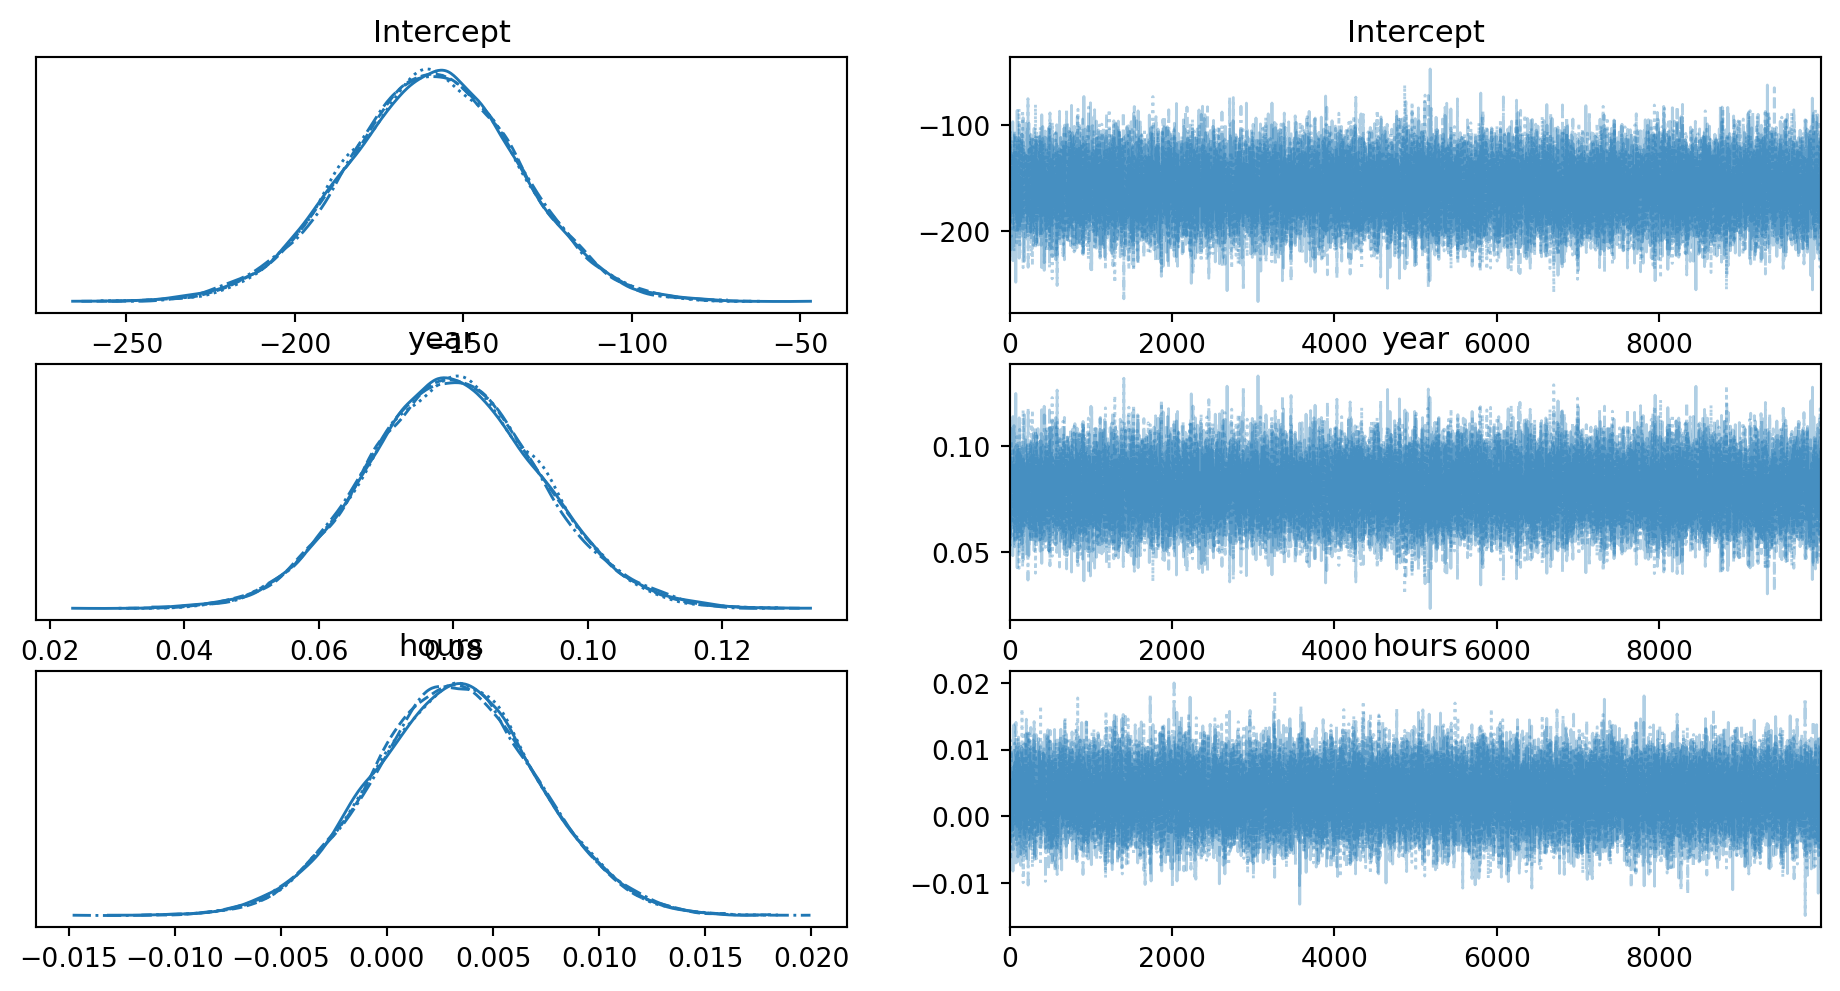
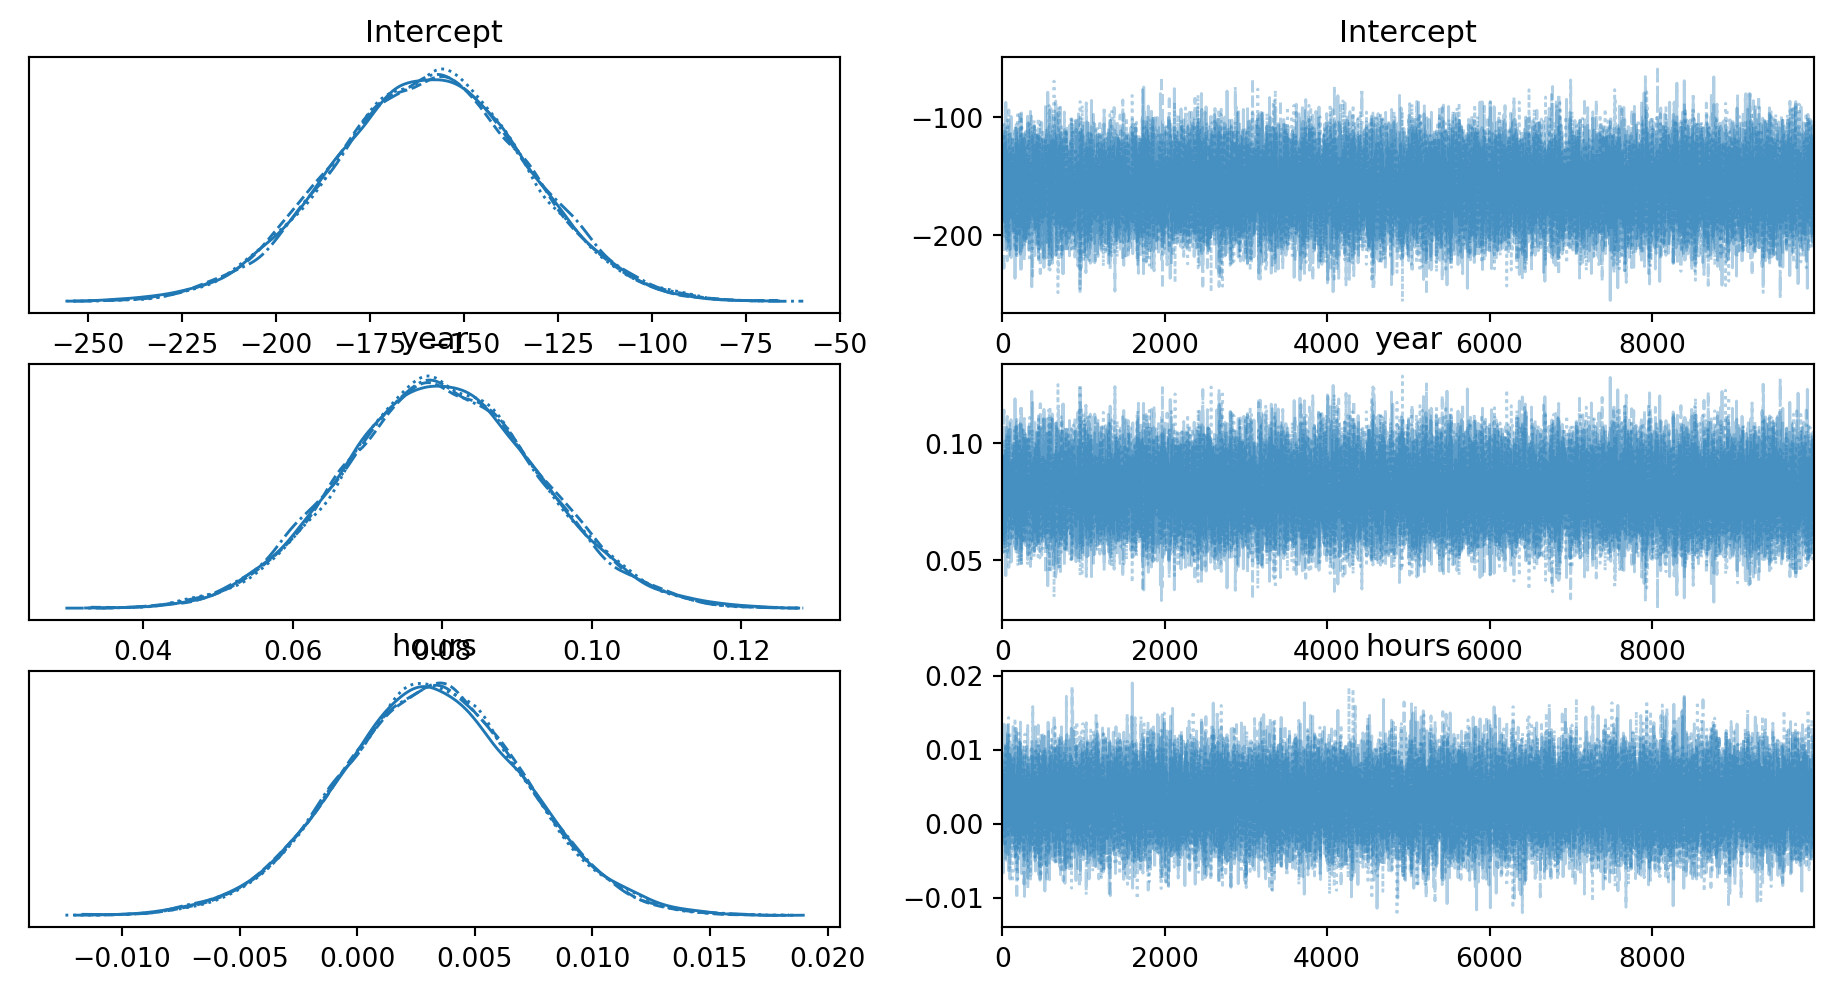
Chapter 12 exercises continued!

diff --git a/Chapter12.html b/Chapter12.html
@@ -514,14 +514,14 @@ Quarto issue
   <tbody>
     <tr>
       <th>Intercept</th>
-      <td>-159.560</td>
-      <td>25.492</td>
-      <td>-206.316</td>
-      <td>-110.756</td>
-      <td>0.176</td>
-      <td>0.125</td>
-      <td>20996.0</td>
-      <td>21942.0</td>
+      <td>-159.408</td>
+      <td>25.632</td>
+      <td>-207.358</td>
+      <td>-111.099</td>
+      <td>0.174</td>
+      <td>0.123</td>
+      <td>21738.0</td>
+      <td>23496.0</td>
       <td>1.0</td>
     </tr>
     <tr>
@@ -529,11 +529,11 @@ Quarto issue
       <td>0.080</td>
       <td>0.013</td>
       <td>0.055</td>
-      <td>0.103</td>
+      <td>0.104</td>
       <td>0.000</td>
       <td>0.000</td>
-      <td>20945.0</td>
-      <td>21840.0</td>
+      <td>21706.0</td>
+      <td>23293.0</td>
       <td>1.0</td>
     </tr>
     <tr>
@@ -541,11 +541,11 @@ Quarto issue
       <td>0.003</td>
       <td>0.004</td>
       <td>-0.004</td>
-      <td>0.010</td>
+      <td>0.011</td>
       <td>0.000</td>
       <td>0.000</td>
-      <td>24123.0</td>
-      <td>26122.0</td>
+      <td>24288.0</td>
+      <td>24266.0</td>
       <td>1.0</td>
     </tr>
   </tbody>
@@ -553,7 +553,7 @@ Quarto issue
 </div>
 </div>
 <div class="cell-output cell-output-display">
-<p><img src="Chapter12_files/figure-html/cell-10-output-16.png" width="920" height="496"></p>
+<p><img src="Chapter12_files/figure-html/cell-10-output-16.png" width="917" height="496"></p>
 </div>
 </div>
 <p>Diagnostics look good, so moving on to look at the posterior check&gt;</p>
@@ -571,6 +571,297 @@ Quarto issue
 </section>
 <section id="exercise-12.8" class="level3">
 <h3 class="anchored" data-anchor-id="exercise-12.8">Exercise 12.8</h3>
+<div class="cell" data-execution_count="11">
+<div class="sourceCode cell-code" id="cb23"><pre class="sourceCode python code-with-copy"><code class="sourceCode python"><span id="cb23-1"><a href="#cb23-1" aria-hidden="true" tabindex="-1"></a>model2 <span class="op">=</span> bmb.Model(<span class="st">'count ~ year + hours'</span>, eagles, family<span class="op">=</span><span class="st">'negativebinomial'</span>)</span>
+<span id="cb23-2"><a href="#cb23-2" aria-hidden="true" tabindex="-1"></a>model2.build()</span>
+<span id="cb23-3"><a href="#cb23-3" aria-hidden="true" tabindex="-1"></a>model2 </span></code><button title="Copy to Clipboard" class="code-copy-button"><i class="bi"></i></button></pre></div>
+<div class="cell-output cell-output-display" data-execution_count="11">
+<pre><code>Formula: count ~ year + hours
+Family name: Negativebinomial
+Link: log
+Observations: 37
+Priors:
+  Common-level effects
+    Intercept ~ Normal(mu: 0, sigma: 468.302)
+    year ~ Normal(mu: 0.0, sigma: 0.2341)
+    hours ~ Normal(mu: 0.0, sigma: 0.0806)
+
+  Auxiliary parameters
+    alpha ~ HalfCauchy(beta: 1)</code></pre>
+</div>
+</div>
+<div class="cell" data-execution_count="12">
+<div class="sourceCode cell-code" id="cb25"><pre class="sourceCode python code-with-copy"><code class="sourceCode python"><span id="cb25-1"><a href="#cb25-1" aria-hidden="true" tabindex="-1"></a>model2.plot_priors()</span></code><button title="Copy to Clipboard" class="code-copy-button"><i class="bi"></i></button></pre></div>
+<div class="cell-output cell-output-display" data-execution_count="12">
+<pre><code>array([&lt;AxesSubplot:title={'center':'Intercept'}&gt;,
+       &lt;AxesSubplot:title={'center':'year'}&gt;,
+       &lt;AxesSubplot:title={'center':'hours'}&gt;,
+       &lt;AxesSubplot:title={'center':'count_alpha'}&gt;], dtype=object)</code></pre>
+</div>
+<div class="cell-output cell-output-display">
+<p><img src="Chapter12_files/figure-html/cell-13-output-2.png" width="2415" height="487"></p>
+</div>
+</div>
+<p>I am not too sure what bambi is doing with <code>alpha</code> prior here, so once again i will use my own exponential prior</p>
+<div class="cell" data-execution_count="13">
+<div class="sourceCode cell-code" id="cb27"><pre class="sourceCode python code-with-copy"><code class="sourceCode python"><span id="cb27-1"><a href="#cb27-1" aria-hidden="true" tabindex="-1"></a>alpha_prior <span class="op">=</span> bmb.Prior(<span class="st">'Exponential'</span>, lam<span class="op">=</span> <span class="dv">1</span><span class="op">/</span><span class="fl">50.</span>)</span>
+<span id="cb27-2"><a href="#cb27-2" aria-hidden="true" tabindex="-1"></a>model2 <span class="op">=</span> bmb.Model(<span class="st">'count ~ year + hours'</span>, eagles, family<span class="op">=</span><span class="st">'negativebinomial'</span>,priors <span class="op">=</span> {<span class="st">'alpha'</span>: alpha_prior})</span>
+<span id="cb27-3"><a href="#cb27-3" aria-hidden="true" tabindex="-1"></a>model2.build()</span>
+<span id="cb27-4"><a href="#cb27-4" aria-hidden="true" tabindex="-1"></a>model2 </span></code><button title="Copy to Clipboard" class="code-copy-button"><i class="bi"></i></button></pre></div>
+<div class="cell-output cell-output-display" data-execution_count="13">
+<pre><code>Formula: count ~ year + hours
+Family name: Negativebinomial
+Link: log
+Observations: 37
+Priors:
+  Common-level effects
+    Intercept ~ Normal(mu: 0, sigma: 468.302)
+    year ~ Normal(mu: 0.0, sigma: 0.2341)
+    hours ~ Normal(mu: 0.0, sigma: 0.0806)
+
+  Auxiliary parameters
+    alpha ~ Exponential(lam: 0.02)</code></pre>
+</div>
+</div>
+<div class="cell" data-execution_count="14">
+<div class="sourceCode cell-code" id="cb29"><pre class="sourceCode python code-with-copy"><code class="sourceCode python"><span id="cb29-1"><a href="#cb29-1" aria-hidden="true" tabindex="-1"></a>model2.plot_priors()</span></code><button title="Copy to Clipboard" class="code-copy-button"><i class="bi"></i></button></pre></div>
+<div class="cell-output cell-output-display" data-execution_count="14">
+<pre><code>array([&lt;AxesSubplot:title={'center':'Intercept'}&gt;,
+       &lt;AxesSubplot:title={'center':'year'}&gt;,
+       &lt;AxesSubplot:title={'center':'hours'}&gt;,
+       &lt;AxesSubplot:title={'center':'count_alpha'}&gt;], dtype=object)</code></pre>
+</div>
+<div class="cell-output cell-output-display">
+<p><img src="Chapter12_files/figure-html/cell-15-output-2.png" width="2415" height="487"></p>
+</div>
+</div>
+<div class="cell" data-execution_count="15">
+<div class="sourceCode cell-code" id="cb31"><pre class="sourceCode python code-with-copy"><code class="sourceCode python"><span id="cb31-1"><a href="#cb31-1" aria-hidden="true" tabindex="-1"></a>results2 <span class="op">=</span> model2.fit(draws<span class="op">=</span><span class="dv">10000</span>, chains<span class="op">=</span><span class="dv">4</span>,cores<span class="op">=</span><span class="dv">1</span>)</span>
+<span id="cb31-2"><a href="#cb31-2" aria-hidden="true" tabindex="-1"></a>az.plot_trace(results2)</span>
+<span id="cb31-3"><a href="#cb31-3" aria-hidden="true" tabindex="-1"></a>az.summary(results2)</span></code><button title="Copy to Clipboard" class="code-copy-button"><i class="bi"></i></button></pre></div>
+<div class="cell-output cell-output-stderr">
+<pre><code>Auto-assigning NUTS sampler...</code></pre>
+</div>
+<div class="cell-output cell-output-stderr">
+<pre><code>Initializing NUTS using jitter+adapt_diag...</code></pre>
+</div>
+<div class="cell-output cell-output-stderr">
+<pre><code>Sequential sampling (4 chains in 1 job)</code></pre>
+</div>
+<div class="cell-output cell-output-stderr">
+<pre><code>NUTS: [Intercept, year, hours, count_alpha]</code></pre>
+</div>
+<div class="cell-output cell-output-display">
+
+<style>
+    /* Turns off some styling */
+    progress {
+        /* gets rid of default border in Firefox and Opera. */
+        border: none;
+        /* Needs to be in here for Safari polyfill so background images work as expected. */
+        background-size: auto;
+    }
+    progress:not([value]), progress:not([value])::-webkit-progress-bar {
+        background: repeating-linear-gradient(45deg, #7e7e7e, #7e7e7e 10px, #5c5c5c 10px, #5c5c5c 20px);
+    }
+    .progress-bar-interrupted, .progress-bar-interrupted::-webkit-progress-bar {
+        background: #F44336;
+    }
+</style>
+</div>
+<div class="cell-output cell-output-display">
+
+    <div>
+      <progress value="11000" class="" max="11000" style="width:300px; height:20px; vertical-align: middle;"></progress>
+      100.00% [11000/11000 00:20&lt;00:00 Sampling chain 0, 0 divergences]
+    </div>
+    
+</div>
+<div class="cell-output cell-output-stderr">
+<pre><code>/Users/ronaldlegere/opt/anaconda3/envs/BayesRules/lib/python3.7/site-packages/scipy/stats/_continuous_distns.py:624: RuntimeWarning: overflow encountered in _beta_ppf
+  return _boost._beta_ppf(q, a, b)</code></pre>
+</div>
+<div class="cell-output cell-output-display">
+
+<style>
+    /* Turns off some styling */
+    progress {
+        /* gets rid of default border in Firefox and Opera. */
+        border: none;
+        /* Needs to be in here for Safari polyfill so background images work as expected. */
+        background-size: auto;
+    }
+    progress:not([value]), progress:not([value])::-webkit-progress-bar {
+        background: repeating-linear-gradient(45deg, #7e7e7e, #7e7e7e 10px, #5c5c5c 10px, #5c5c5c 20px);
+    }
+    .progress-bar-interrupted, .progress-bar-interrupted::-webkit-progress-bar {
+        background: #F44336;
+    }
+</style>
+</div>
+<div class="cell-output cell-output-display">
+
+    <div>
+      <progress value="11000" class="" max="11000" style="width:300px; height:20px; vertical-align: middle;"></progress>
+      100.00% [11000/11000 00:20&lt;00:00 Sampling chain 1, 0 divergences]
+    </div>
+    
+</div>
+<div class="cell-output cell-output-display">
+
+<style>
+    /* Turns off some styling */
+    progress {
+        /* gets rid of default border in Firefox and Opera. */
+        border: none;
+        /* Needs to be in here for Safari polyfill so background images work as expected. */
+        background-size: auto;
+    }
+    progress:not([value]), progress:not([value])::-webkit-progress-bar {
+        background: repeating-linear-gradient(45deg, #7e7e7e, #7e7e7e 10px, #5c5c5c 10px, #5c5c5c 20px);
+    }
+    .progress-bar-interrupted, .progress-bar-interrupted::-webkit-progress-bar {
+        background: #F44336;
+    }
+</style>
+</div>
+<div class="cell-output cell-output-display">
+
+    <div>
+      <progress value="11000" class="" max="11000" style="width:300px; height:20px; vertical-align: middle;"></progress>
+      100.00% [11000/11000 00:18&lt;00:00 Sampling chain 2, 0 divergences]
+    </div>
+    
+</div>
+<div class="cell-output cell-output-display">
+
+<style>
+    /* Turns off some styling */
+    progress {
+        /* gets rid of default border in Firefox and Opera. */
+        border: none;
+        /* Needs to be in here for Safari polyfill so background images work as expected. */
+        background-size: auto;
+    }
+    progress:not([value]), progress:not([value])::-webkit-progress-bar {
+        background: repeating-linear-gradient(45deg, #7e7e7e, #7e7e7e 10px, #5c5c5c 10px, #5c5c5c 20px);
+    }
+    .progress-bar-interrupted, .progress-bar-interrupted::-webkit-progress-bar {
+        background: #F44336;
+    }
+</style>
+</div>
+<div class="cell-output cell-output-display">
+
+    <div>
+      <progress value="11000" class="" max="11000" style="width:300px; height:20px; vertical-align: middle;"></progress>
+      100.00% [11000/11000 00:21&lt;00:00 Sampling chain 3, 0 divergences]
+    </div>
+    
+</div>
+<div class="cell-output cell-output-stderr">
+<pre><code>Sampling 4 chains for 1_000 tune and 10_000 draw iterations (4_000 + 40_000 draws total) took 82 seconds.</code></pre>
+</div>
+<div class="cell-output cell-output-display" data-execution_count="15">
+
+<div>
+
+<table class="dataframe table table-sm table-striped">
+  <thead>
+    <tr>
+      <th></th>
+      <th>mean</th>
+      <th>sd</th>
+      <th>hdi_3%</th>
+      <th>hdi_97%</th>
+      <th>mcse_mean</th>
+      <th>mcse_sd</th>
+      <th>ess_bulk</th>
+      <th>ess_tail</th>
+      <th>r_hat</th>
+    </tr>
+  </thead>
+  <tbody>
+    <tr>
+      <th>Intercept</th>
+      <td>-158.513</td>
+      <td>27.672</td>
+      <td>-210.555</td>
+      <td>-106.249</td>
+      <td>0.159</td>
+      <td>0.114</td>
+      <td>30448.0</td>
+      <td>25905.0</td>
+      <td>1.0</td>
+    </tr>
+    <tr>
+      <th>year</th>
+      <td>0.079</td>
+      <td>0.014</td>
+      <td>0.053</td>
+      <td>0.106</td>
+      <td>0.000</td>
+      <td>0.000</td>
+      <td>30341.0</td>
+      <td>25993.0</td>
+      <td>1.0</td>
+    </tr>
+    <tr>
+      <th>hours</th>
+      <td>0.004</td>
+      <td>0.004</td>
+      <td>-0.005</td>
+      <td>0.011</td>
+      <td>0.000</td>
+      <td>0.000</td>
+      <td>34600.0</td>
+      <td>28094.0</td>
+      <td>1.0</td>
+    </tr>
+    <tr>
+      <th>count_alpha</th>
+      <td>48.034</td>
+      <td>46.467</td>
+      <td>1.993</td>
+      <td>132.671</td>
+      <td>0.258</td>
+      <td>0.184</td>
+      <td>33093.0</td>
+      <td>30394.0</td>
+      <td>1.0</td>
+    </tr>
+  </tbody>
+</table>
+</div>
+</div>
+<div class="cell-output cell-output-display">
+<p><img src="Chapter12_files/figure-html/cell-16-output-16.png" width="917" height="641"></p>
+</div>
+</div>
+<p>Diagnostics look good, so moving on to look at the posterior check&gt;</p>
+<div class="cell" data-execution_count="16">
+<div class="sourceCode cell-code" id="cb38"><pre class="sourceCode python code-with-copy"><code class="sourceCode python"><span id="cb38-1"><a href="#cb38-1" aria-hidden="true" tabindex="-1"></a>model2.predict(results2, kind<span class="op">=</span><span class="st">'pps'</span>, inplace<span class="op">=</span> <span class="va">True</span>)</span>
+<span id="cb38-2"><a href="#cb38-2" aria-hidden="true" tabindex="-1"></a>az.plot_ppc(results2, num_pp_samples <span class="op">=</span> <span class="dv">30</span>)</span></code><button title="Copy to Clipboard" class="code-copy-button"><i class="bi"></i></button></pre></div>
+<div class="cell-output cell-output-display" data-execution_count="16">
+<pre><code>&lt;AxesSubplot:xlabel='count / count'&gt;</code></pre>
+</div>
+<div class="cell-output cell-output-display">
+<p><img src="Chapter12_files/figure-html/cell-17-output-2.png" width="545" height="434"></p>
+</div>
+</div>
+<p>Not sure it was worth all that extra trouble. Perhaps I am missing something, because the count has a mean that is close to the standard deviation (across all years and hours).</p>
+<p>Based on this year and hours are both significant, but year is clearly the stronger predictor.</p>
+<p>Lets grab the raw samples so i can compute directly the quantile for the year coefficient.</p>
+<div class="cell" data-execution_count="17">
+<div class="sourceCode cell-code" id="cb40"><pre class="sourceCode python code-with-copy"><code class="sourceCode python"><span id="cb40-1"><a href="#cb40-1" aria-hidden="true" tabindex="-1"></a>year_coeff_samples <span class="op">=</span> results2.posterior.year.values.flatten()</span>
+<span id="cb40-2"><a href="#cb40-2" aria-hidden="true" tabindex="-1"></a>np.quantile(year_coeff_samples,[<span class="fl">.025</span>,<span class="fl">.975</span>])</span></code><button title="Copy to Clipboard" class="code-copy-button"><i class="bi"></i></button></pre></div>
+<div class="cell-output cell-output-display" data-execution_count="17">
+<pre><code>array([0.0520712 , 0.10745111])</code></pre>
+</div>
+</div>
+<section id="ok-i-am-going-to-redo-this-using-pymc-direct" class="level4">
+<h4 class="anchored" data-anchor-id="ok-i-am-going-to-redo-this-using-pymc-direct">Ok i am going to redo this using <code>pymc</code> direct</h4>
+</section>
 </section>
 <section id="exercise-12.9" class="level3">
 <h3 class="anchored" data-anchor-id="exercise-12.9">Exercise 12.9</h3>
